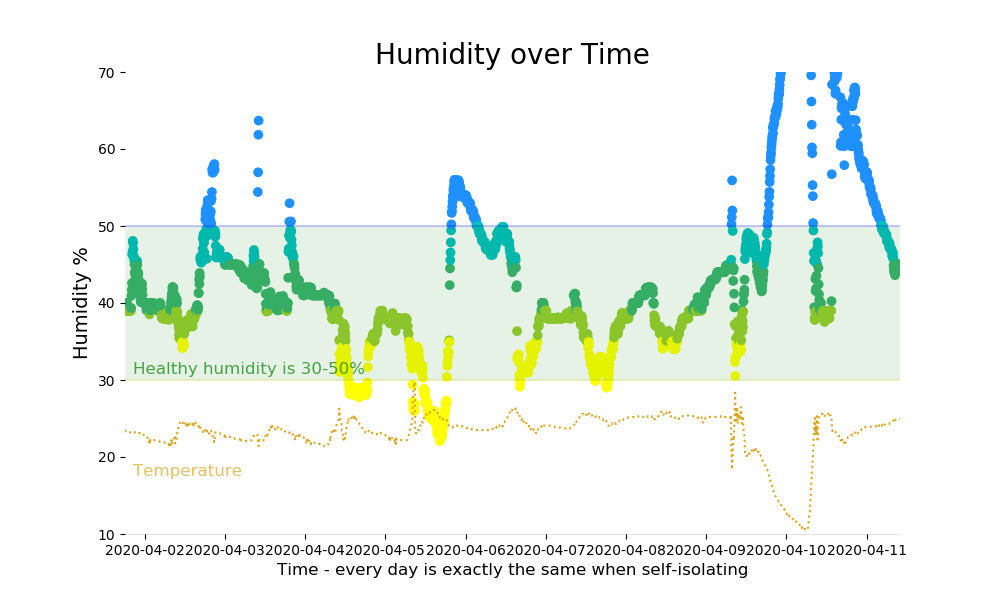
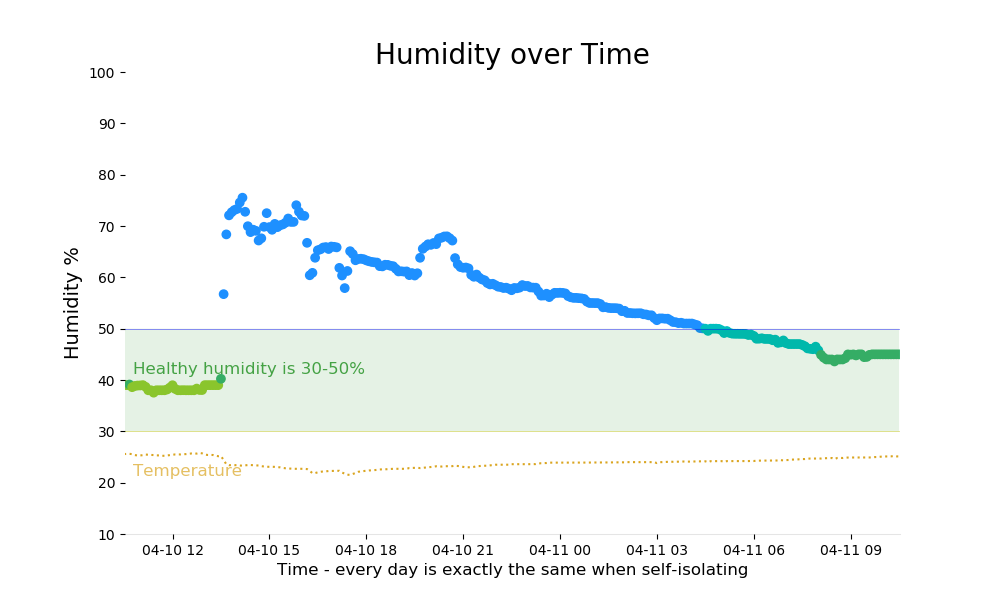
Max 90. Show only 24 hours.

diff --git a/humidity/webapp/Humidity.py b/humidity/webapp/Humidity.py
@@ -46,10 +46,11 @@ def generate_image():
   plt.title('Humidity over Time', fontsize=20)
   plt.xlabel('Time - every day is exactly the same when self-isolating', fontsize=12)
   plt.ylabel('Humidity %', fontsize=14)
-  plt.ylim(10, 70)
+  plt.ylim(10, 90)
   import datetime
-  plt.xlim(df['datetime'].min(), datetime.datetime.now())
-  ax.set_xlim(df['datetime'].min(), datetime.datetime.now())
+  from datetime import timedelta
+  plt.xlim(datetime.datetime.now() - timedelta(hours=24), datetime.datetime.now())
+  #ax.set_xlim(df['datetime'].min(), datetime.datetime.now())
   #fig.xlim(df['datetime'].min, datetime.datetime.now())
   ax.spines['right'].set_visible(False)
   ax.spines['top'].set_visible(False)
